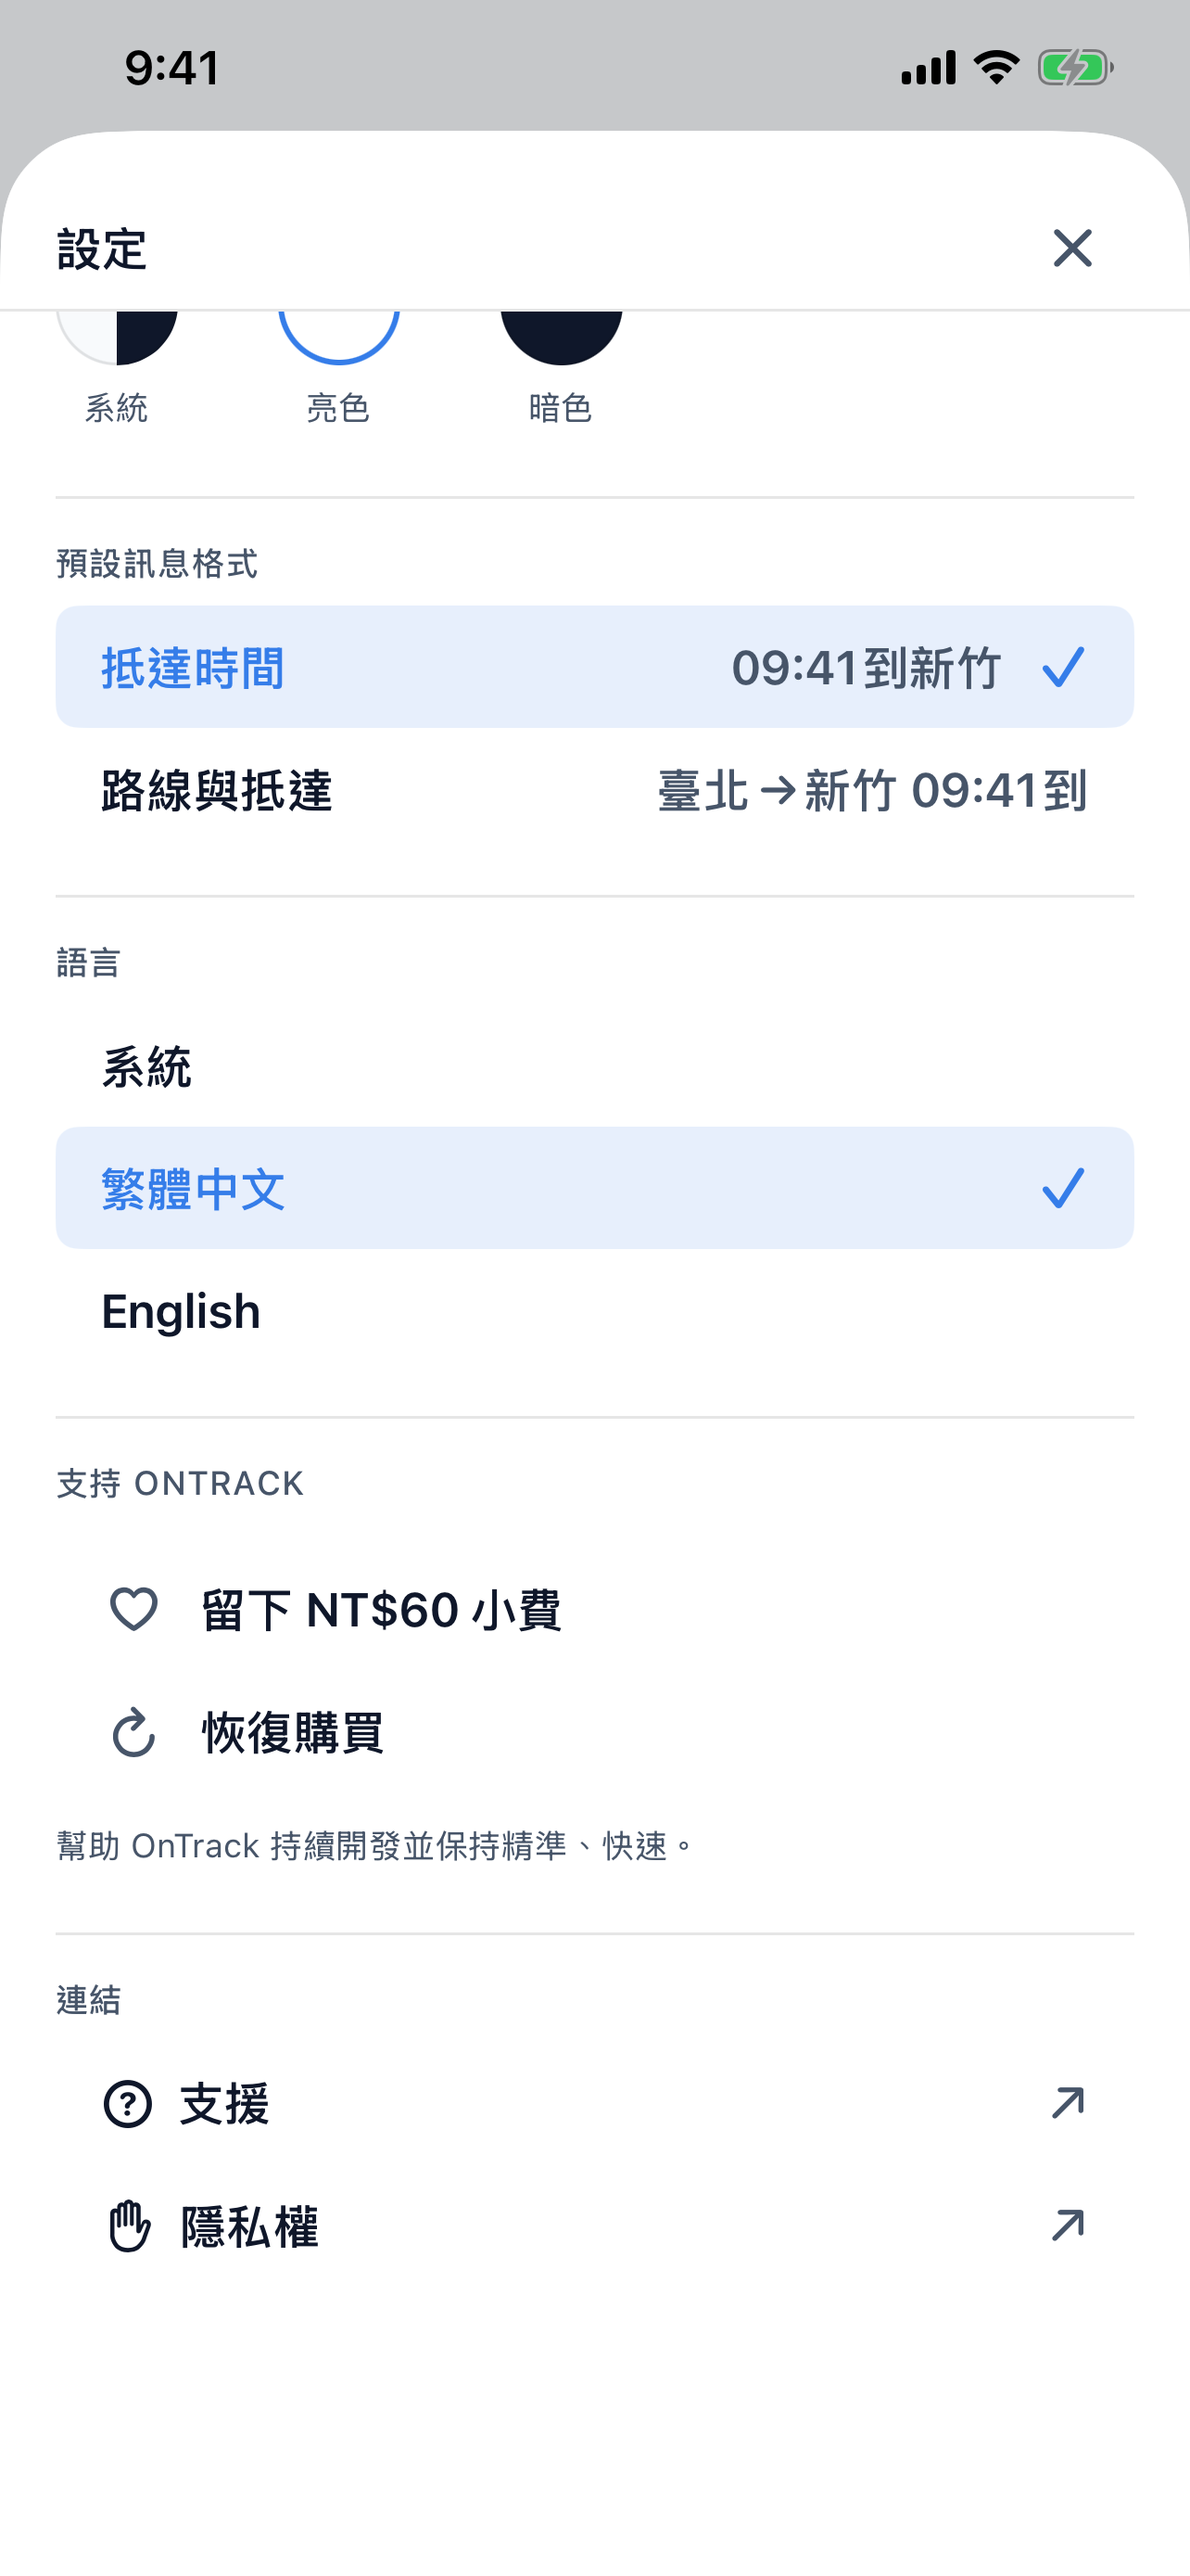
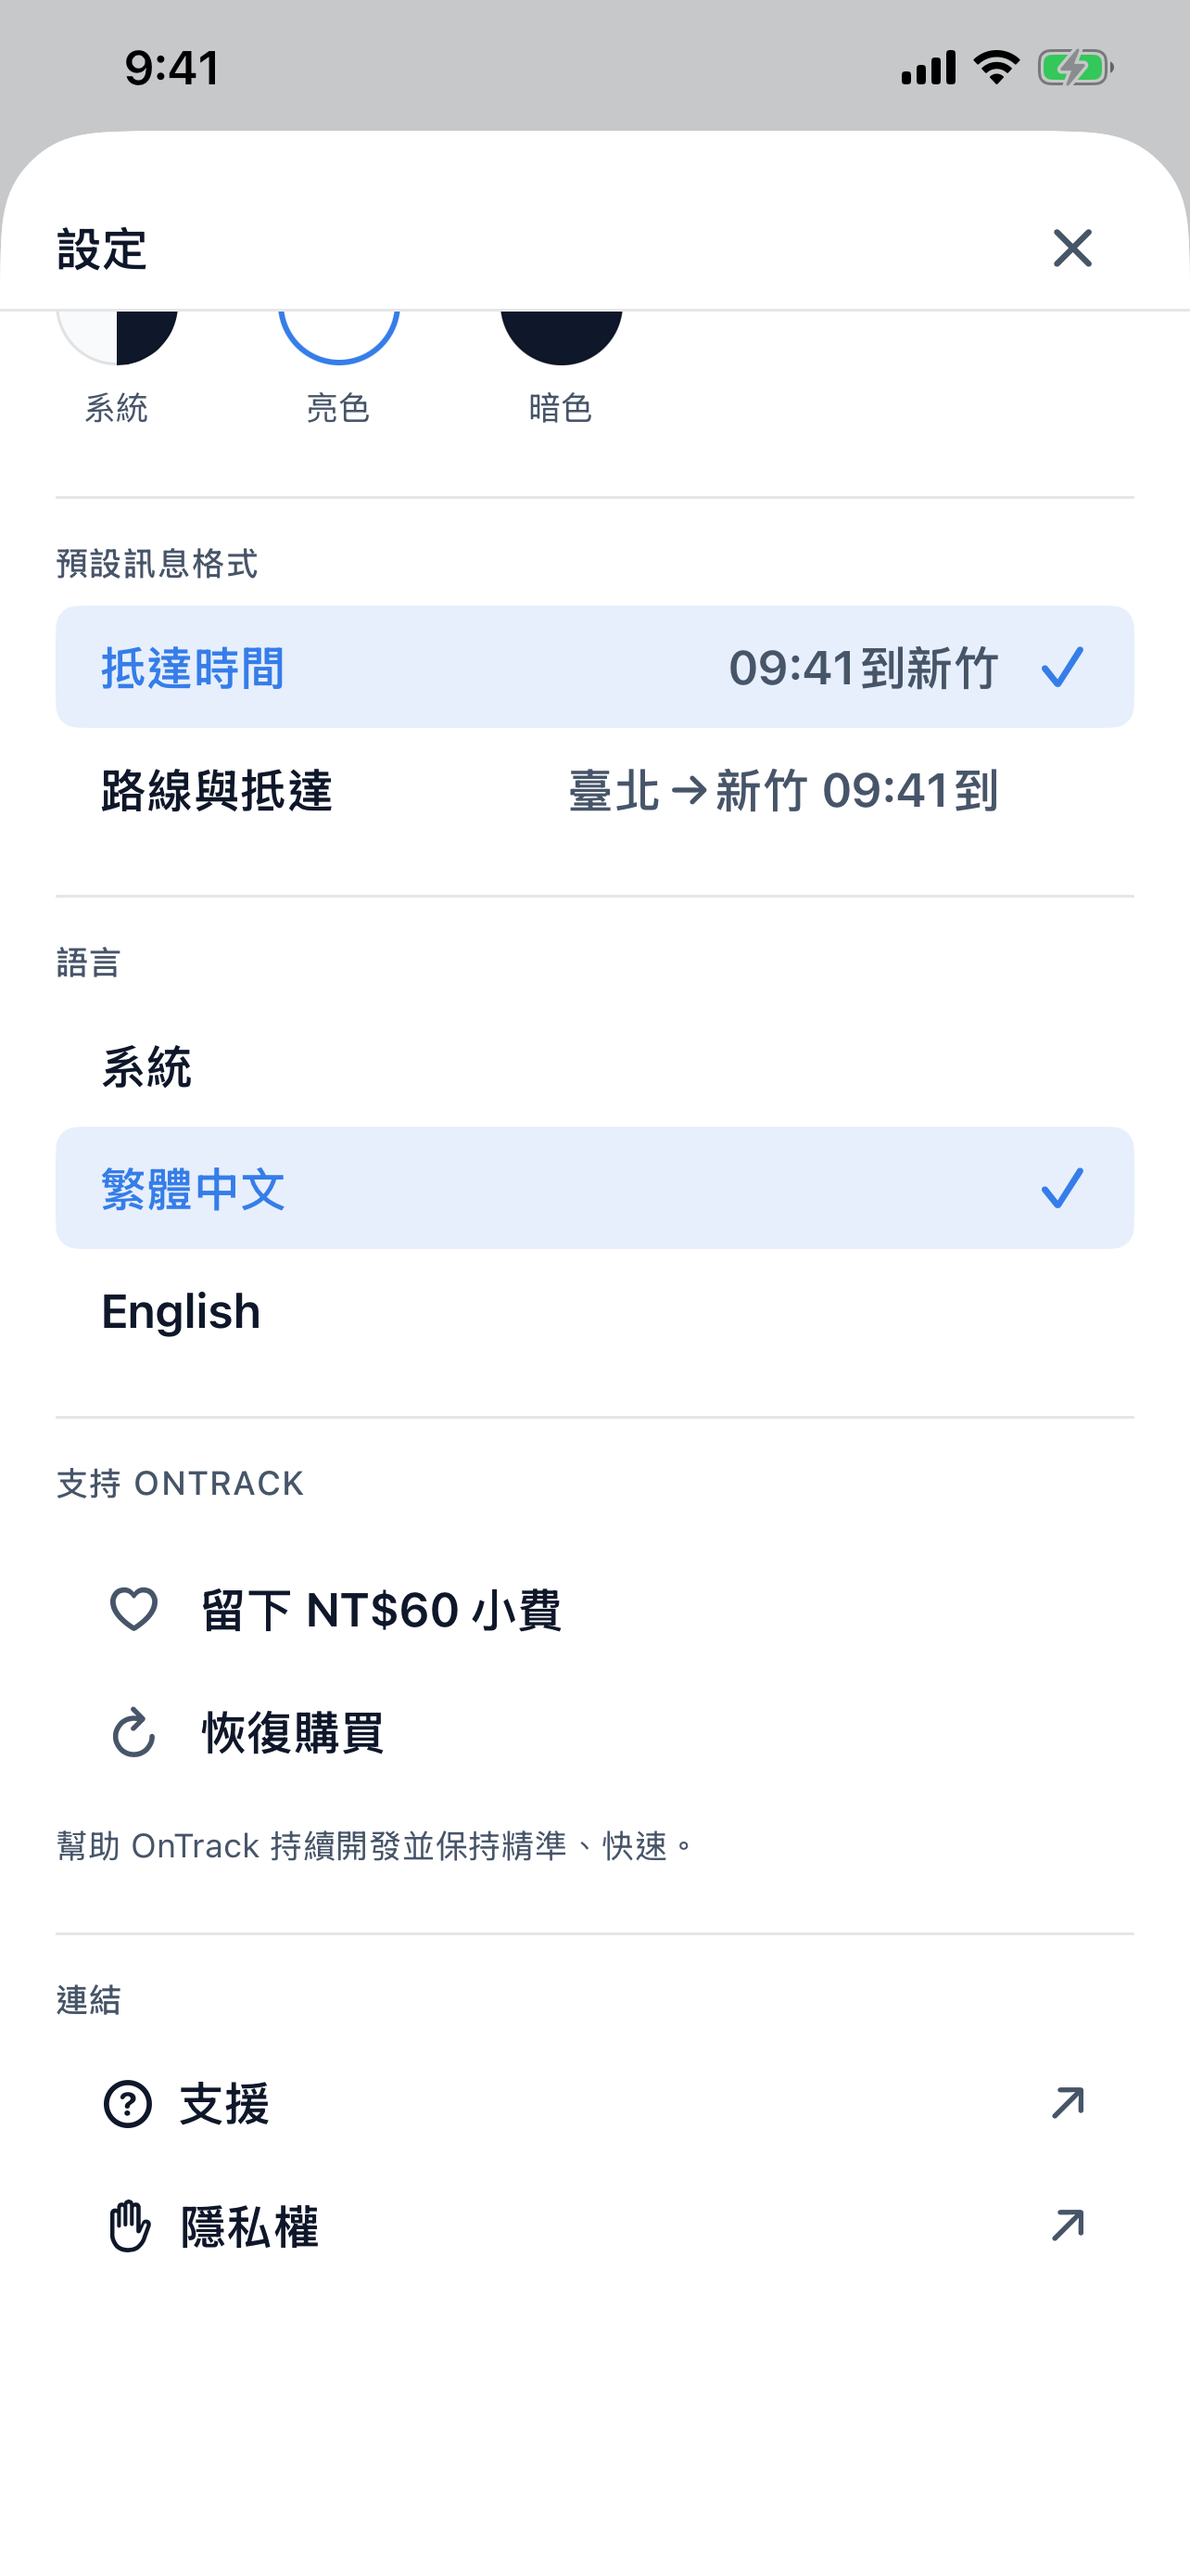
fix: reserve settings checkmark space

Changed region(s): [[0.4673, 0.2477, 0.9034, 0.3405]]

diff --git a/apps/ios/OnTrack/ContentView.swift b/apps/ios/OnTrack/ContentView.swift
@@ -2578,11 +2578,12 @@ private struct SettingsOptionButton: View {
                         .layoutPriority(1)
                 }
 
-                if isSelected {
-                    Image(systemName: "checkmark")
-                        .font(OnTrackFont.symbol)
-                        .foregroundStyle(OnTrackTheme.primary)
-                }
+                Image(systemName: "checkmark")
+                    .font(OnTrackFont.symbol)
+                    .foregroundStyle(OnTrackTheme.primary)
+                    .frame(width: OnTrackTheme.space5)
+                    .opacity(isSelected ? 1 : 0)
+                    .accessibilityHidden(!isSelected)
             }
             .padding(.horizontal, OnTrackTheme.space4)
             .frame(maxWidth: .infinity, alignment: .leading)
